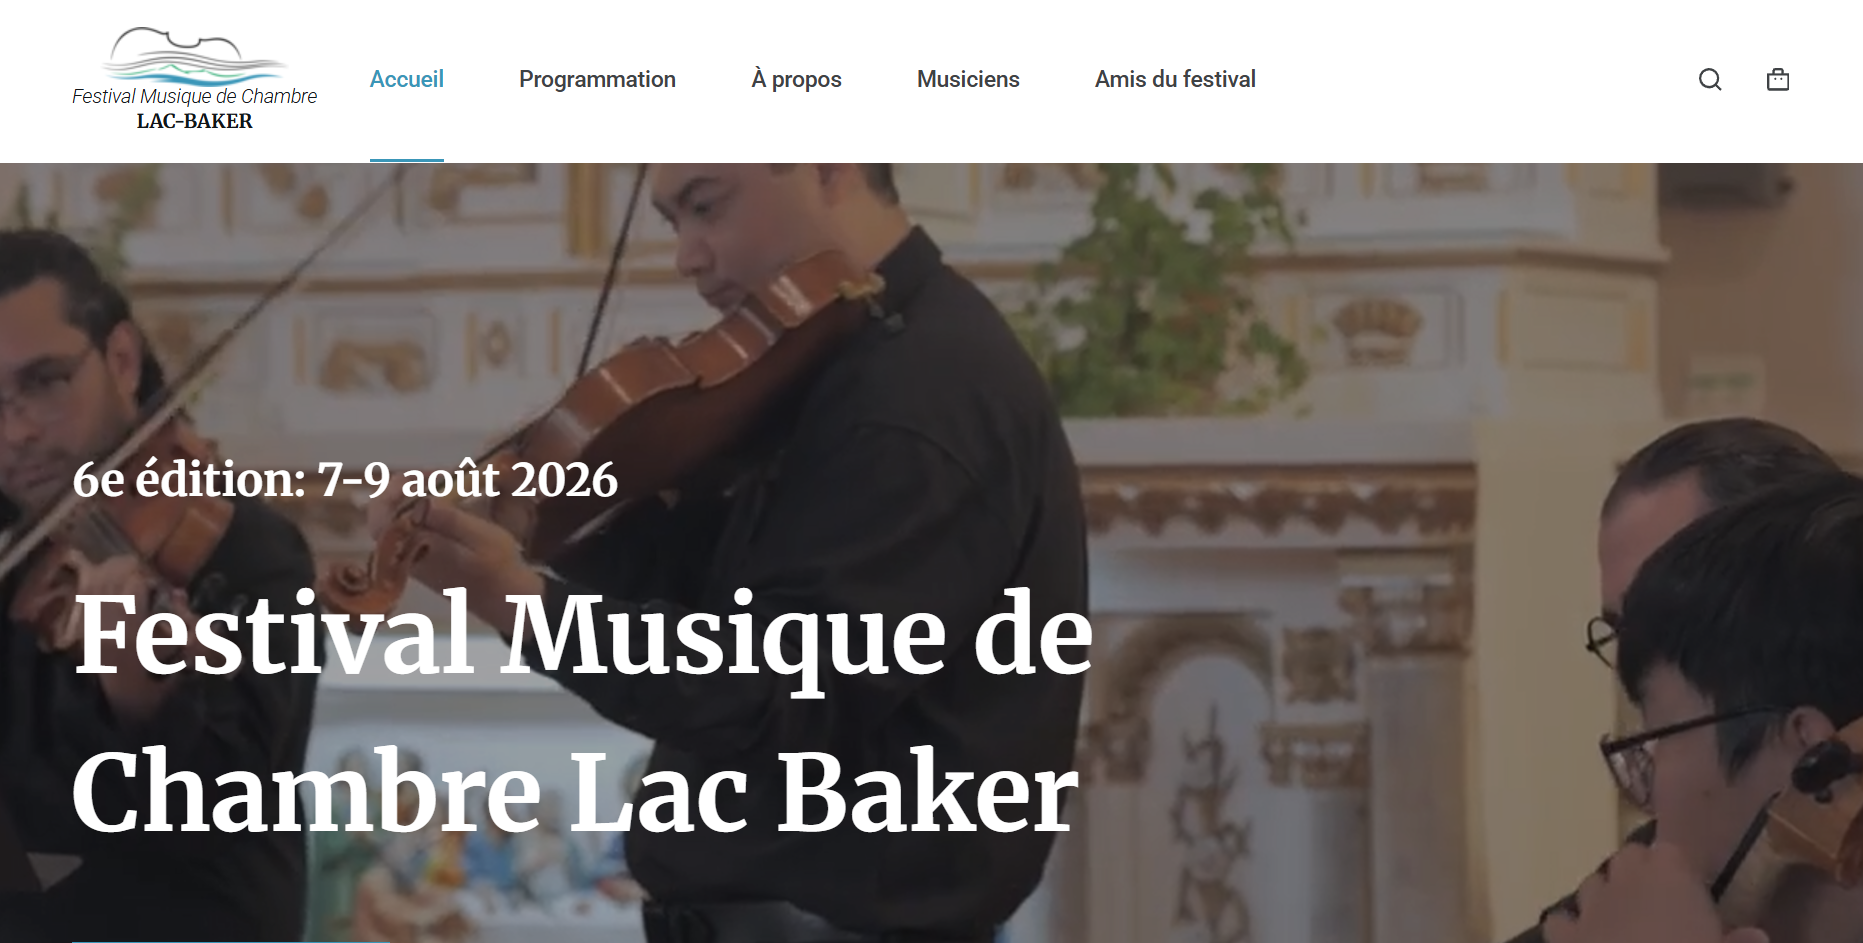
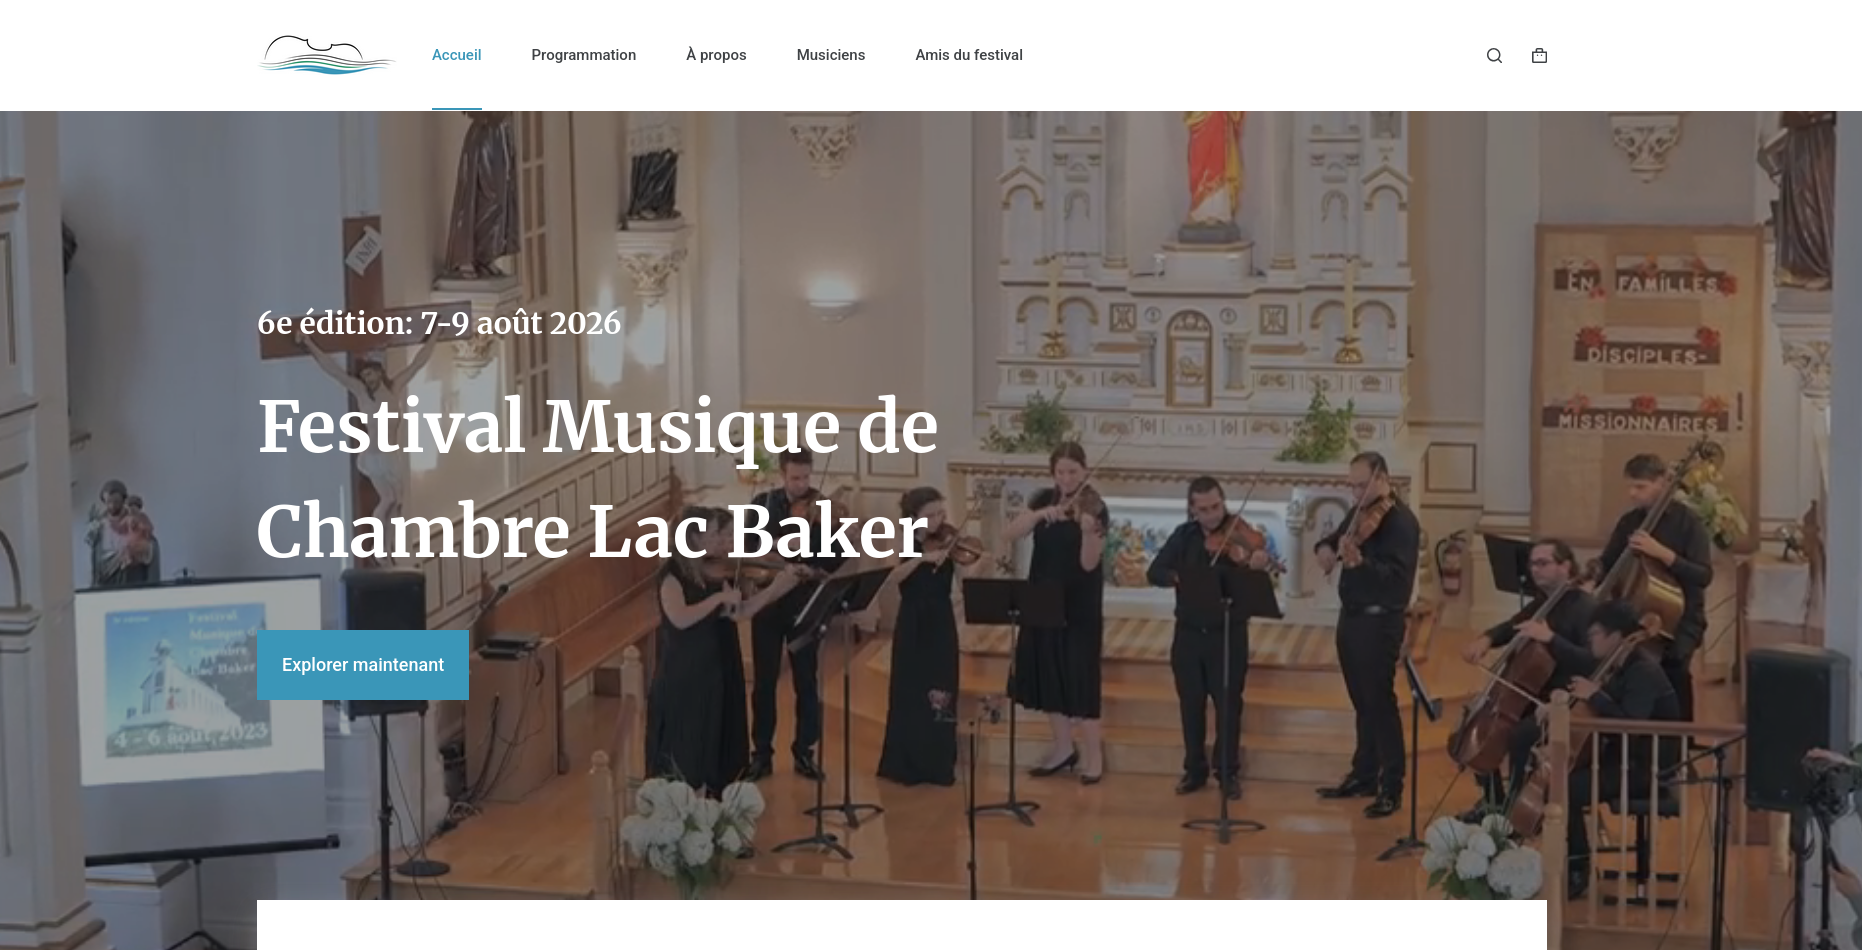
images update, new portfolio image

diff --git a/projects/music-festival.html b/projects/music-festival.html
@@ -304,9 +304,7 @@
 
                 <p>
                     To better understand the needs of both festival visitors and organizers, I conducted five
-                    semi-structured interviews lasting approximately twenty minutes each. Participants were asked
-                    about how they typically discovered festival information, planned their visit, and interacted
-                    with the website before and during the event.
+                    semi-structured interviews lasting approximately twenty minutes each. Participants discussed how they discovered festival information, planned their visit, and used the website before and during the event.
                 </p>
 
                 <h4>Recruitment criteria</h4>
@@ -383,8 +381,7 @@
                     <h3>Visitors want immediate access to practical information.</h3>
 
                     <p>
-                        Participants consistently expected to find the concert programme, dates, location,
-                        and ticket information within the first few seconds of visiting the website.
+                        Most participants looked for the concert programme, dates, location, and ticket information immediately when visiting the website.
                     </p>
 
                     <blockquote>
@@ -405,8 +402,7 @@
                     <h3>The website should reflect the festival's artistic identity.</h3>
 
                     <p>
-                        Visitors associated the festival with high-quality performances and an intimate atmosphere,
-                        but felt the previous website did not communicate that experience.
+                        Participants described the festival as intimate and high-quality, but felt the previous website did not reflect that experience.
                     </p>
 
                     <blockquote>
@@ -446,7 +442,7 @@
 
                     <div class="cs-label">Insight 4</div>
 
-                    <h3>Many visitors browse on mobile devices.</h3>
+                    <h3>Several participants mentioned checking the website on mobile during travel or during the festival.</h3>
 
                     <p>
                         Participants often checked the website while travelling or during the festival, making
@@ -472,8 +468,7 @@
                 <h2>Research-Based Personas</h2>
 
                 <p>
-                    The research identified three primary user groups with different goals. These personas helped
-                    prioritise content, navigation, and content management throughout the redesign.
+                    Research revealed three main user groups. These personas helped prioritise content, navigation, and content management throughout the redesign.
                 </p>
 
                 <div class="cs-persona-grid">
@@ -676,7 +671,7 @@
 
                     <h3>Clear Homepage Hierarchy</h3>
 
-                    <img class="cs-img-real" src="../images/fmclb/homepage-design.png" alt="Festival homepage redesign">
+                    <img class="cs-img-real" src="../images/festival/homepage-design.png" alt="Festival homepage redesign">
 
                     <p><strong>Problem:</strong> Visitors struggled to identify the festival dates,
                         concert programme, and primary calls-to-action.</p>
@@ -730,16 +725,14 @@
                 <h2>Usability Testing</h2>
 
                 <p>
-                    The redesigned interface was reviewed through informal usability sessions to validate
-                    the navigation, content hierarchy, and overall visitor experience.
+                    Informal usability sessions were conducted to review navigation, content hierarchy, and key user tasks.
                 </p>
 
                 <div class="cs-test-item">
 
                     <h3>Task 1 — Find the concert programme</h3>
 
-                    <p><strong>Observation:</strong> Participants immediately looked for the programme
-                        from the homepage and expected it to be accessible with a single click.</p>
+                    <p><strong>Observation:</strong> Most participants searched for the programme from the homepage and expected quick access.</p>
 
                     <p><strong>Iteration:</strong> The programme was given greater visual prominence
                         through the navigation and homepage call-to-action.</p>
@@ -772,9 +765,7 @@
 
                 <div class="cs-callout">
                     <p>
-                        Testing confirmed that simplifying the navigation and strengthening the visual
-                        hierarchy made it easier for visitors to discover concerts, understand the
-                        festival, and plan their visit with confidence.
+                        Feedback showed that clearer navigation and hierarchy better supported visitors in finding essential information.
                     </p>
                 </div>
 
@@ -789,8 +780,7 @@
 
                     <div class="cs-a11y-item">
                         <h4>Colour & Contrast</h4>
-                        <p>Colours were selected to provide sufficient contrast for readable text while preserving the
-                            festival's elegant visual identity.</p>
+                        <p>Colours were adjusted to maintain readable contrast while preserving the festival's visual identity.</p>
                     </div>
 
                     <div class="cs-a11y-item">
@@ -838,8 +828,7 @@
                 <h3>Reusable Components</h3>
 
                 <p>
-                    Reusable layouts and consistent styling reduce repetitive work while maintaining a cohesive
-                    visual identity across the website.
+                    Reusable layouts and global styles simplify future updates while maintaining consistency.
                 </p>
 
                 <h3>Responsive Performance</h3>
@@ -858,10 +847,7 @@
                 <h2>Reflection</h2>
 
                 <p>
-                    This project demonstrated that effective UX is about more than creating an attractive
-                    interface. By understanding the needs of both visitors and organizers, I was able to redesign
-                    the website around clear navigation, meaningful content hierarchy, and a maintainable content
-                    management system.
+                    By considering both visitors and organizers, I redesigned the website around clearer navigation, meaningful content hierarchy, and easier maintenance. This approach ensured a maintainable content management system for organizers while providing a better experience for visitors.
                 </p>
 
                 <p>

diff --git a/script.js b/script.js
@@ -37,7 +37,7 @@ const portfolioItems = {
         },
         {
             title: 'Music Festival',
-            type: 'Event Website',
+            type: 'Wordpress Website',
             description: 'Elegant music festival website built with Wordpress.',
             image: 'images/music-festival.png',
             liveLink: 'https://fmclacbaker.com',
@@ -89,7 +89,7 @@ const portfolioItems = {
         },
         {
             title: 'Festival de Musique',
-            type: 'Site Événementiel',
+            type: 'Site Wordpress',
             description: 'Site web élégant pour un festival de musique créé avec Wordpress.',
             image: 'images/music-festival.png',
             liveLink: 'https://fmclacbaker.com',